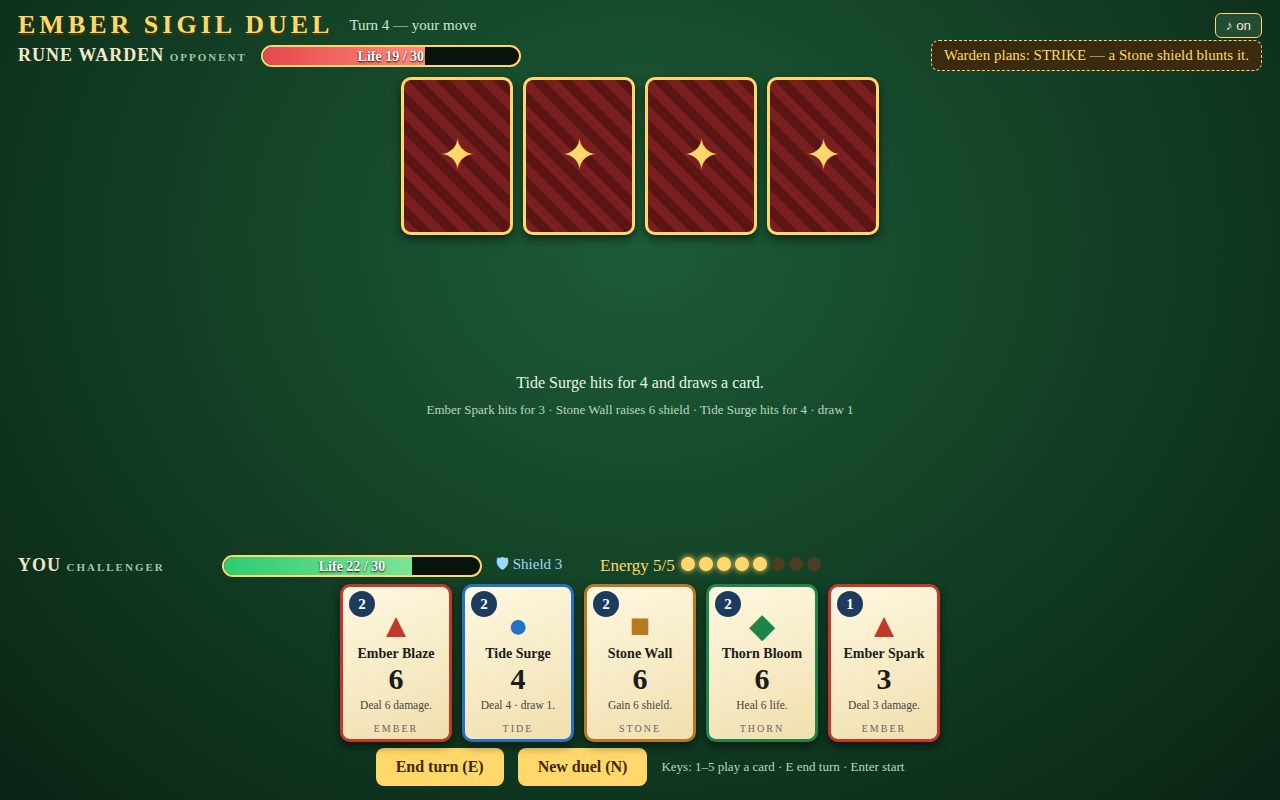
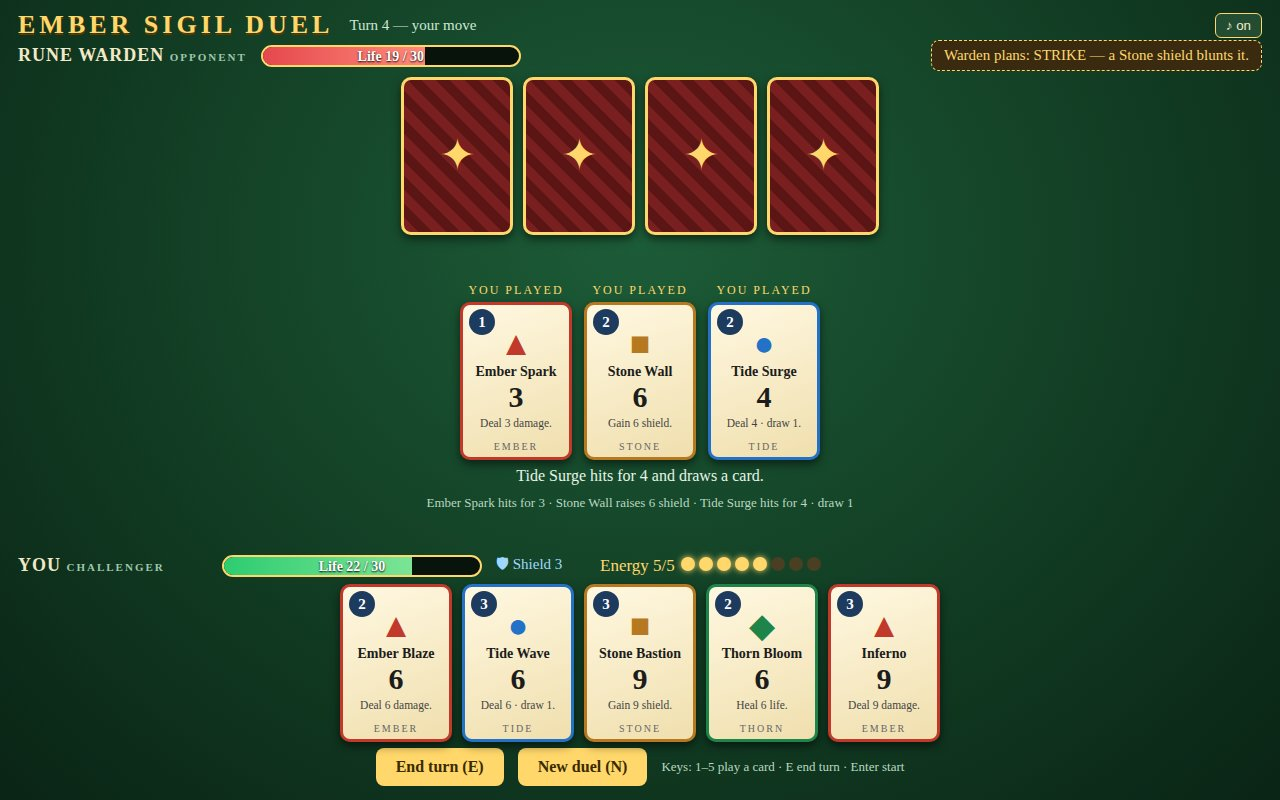
best-card-game v1: played-cards row fix - revision (screenshots re-shot)

diff --git a/game/src/render.js b/game/src/render.js
@@ -8,9 +8,13 @@ export function cardEl(def, opts = {}) {
   const suit = SUITS[def.suit];
   const el = document.createElement('div');
   el.className = `card suit-${def.suit}${opts.disabled ? ' disabled' : ''}${opts.played ? ' played' : ''}`;
-  el.tabIndex = 0;
-  el.setAttribute('role', 'button');
-  el.setAttribute('aria-label', `${def.name}, ${suit.name} suit, cost ${def.cost}, ${def.text}`);
+  if (!opts.static) { // played-row cards are display-only: not focusable, not buttons
+    el.tabIndex = 0;
+    el.setAttribute('role', 'button');
+    el.setAttribute('aria-label', `${def.name}, ${suit.name} suit, cost ${def.cost}, ${def.text}`);
+  } else {
+    el.setAttribute('aria-label', `${def.name}, ${suit.name} suit, played this turn`);
+  }
   el.innerHTML = `<div class="cost">${def.cost}</div><div class="suit">${suit.glyph}</div>` +
     `<div class="cname">${def.name}</div><div class="cvalue">${def.value}</div>` +
     `<div class="ctext">${def.text}</div><div class="suitname">${suit.name}</div>`;
@@ -40,6 +44,26 @@ export function render(game, handlers) {
   $('energy').firstChild.textContent = `Energy ${game.you.energy}/${game.you.maxEnergy} `;
   $('lastPlay').textContent = game.lastPlay || 'Play a card — matching suits chain into combos.';
   $('log').textContent = game.log.join(' · ');
+  const playedRow = $('playedRow');
+  playedRow.innerHTML = '';
+  const played = game.played.slice(-5);
+  if (played.length === 0) {
+    const empty = document.createElement('div');
+    empty.className = 'played-empty';
+    empty.textContent = 'No cards on the table yet — play a card to start the chain.';
+    playedRow.appendChild(empty);
+  } else {
+    played.forEach((p) => {
+      const slot = document.createElement('div');
+      slot.className = 'played-slot';
+      const who = document.createElement('div');
+      who.className = 'played-who';
+      who.textContent = p.who === 'you' ? 'You played' : 'Warden played';
+      slot.appendChild(who);
+      slot.appendChild(cardEl(cardDef(p.id), { played: true, static: true }));
+      playedRow.appendChild(slot);
+    });
+  }
   const banner = $('comboBanner');
   if (game.combo > 0) { banner.textContent = `COMBO x${game.combo + 1}! +2`; banner.classList.remove('hidden'); }
   else banner.classList.add('hidden');

diff --git a/game/src/state.js b/game/src/state.js
@@ -12,6 +12,7 @@ export function createGame(seed) {
     seed, rng, turn: 1, phase: 'title', // title | play | foe | won | lost
     you: makeFighter(), foe: makeFighter(),
     lastSuit: null, combo: 0, log: [], lastPlay: '', intent: null, muted: false,
+    played: [], // display-only record of this turn's played cards: { who: 'you'|'foe', id }
   };
   game.you.deck = shuffle(deckList(), rng);
   game.foe.deck = shuffle(deckList(), rng);
@@ -67,6 +68,7 @@ export function applyCard(game, who, cardId) {
   game.lastSuit = def.suit;
   game.lastPlay = text;
   game.log.push(text);
+  game.played.push({ who, id: cardId }); // display only; the row renders this turn's cards
   if (game.log.length > 3) game.log.shift();
   if (target.life <= 0) game.phase = who === 'you' ? 'won' : 'lost';
   return { ok: true, text, bonus };
@@ -76,7 +78,7 @@ export function startTurn(game) {
   game.turn += 1;
   game.you.maxEnergy = Math.min(MAX_ENERGY, game.you.maxEnergy + 1);
   game.you.energy = game.you.maxEnergy;
-  game.lastSuit = null; game.combo = 0;
+  game.lastSuit = null; game.combo = 0; game.played = [];
   drawUpTo(game.you, HAND_SIZE);
   game.phase = 'play';
 }

diff --git a/game/style.css b/game/style.css
@@ -24,6 +24,12 @@ body { font-family: Georgia, 'Times New Roman', serif; color: #f3e9c8; }
 .hand { display: flex; gap: 10px; min-height: 168px; align-items: center; justify-content: center; padding: 6px 0; }
 #foeArea, #playerArea { flex: 0 0 auto; }
 #midfield { flex: 1 1 auto; display: flex; flex-direction: column; align-items: center; justify-content: center; gap: 6px; }
+#playedRow { display: flex; gap: 12px; min-height: 179px; align-items: center; justify-content: center; }
+.played-slot { display: flex; flex-direction: column; align-items: center; gap: 4px; }
+.played-who { font-size: 12px; letter-spacing: 2px; text-transform: uppercase; color: #ffd76a; }
+.played-empty { font-size: 14px; font-style: italic; color: #8fb89a; }
+#playedRow .card { cursor: default; }
+#playedRow .card:hover, #playedRow .card:focus { transform: none; box-shadow: 0 4px 10px rgba(0,0,0,.55); outline: none; }
 #lastPlay { font-size: 16px; color: #e8f5e9; min-height: 22px; }
 #log { font-size: 13px; color: #b9d8c0; max-width: 760px; text-align: center; min-height: 18px; }
 .combo { font-size: 30px; font-weight: bold; color: #ffd76a; letter-spacing: 3px;

diff --git a/game/src/shots.js b/game/src/shots.js
@@ -17,10 +17,15 @@ export function setupShot(game, shot) {
     game.you.life = 22; game.foe.life = 19;
     game.you.shield = 3; game.turn = 4;
     game.you.energy = 5; game.you.maxEnergy = 5;
-    game.you.hand = ['ember-blaze', 'tide-surge', 'stone-wall', 'thorn-bloom', 'ember-spark'];
+    game.you.hand = ['ember-blaze', 'tide-wave', 'stone-bastion', 'thorn-bloom', 'ember-inferno'];
     game.foe.hand = ['ember-blaze', 'tide-surge', 'stone-wall', 'thorn-bloom'];
     game.lastPlay = 'Tide Surge hits for 4 and draws a card.';
     game.log = ['Ember Spark hits for 3', 'Stone Wall raises 6 shield', 'Tide Surge hits for 4 · draw 1'];
+    game.played = [
+      { who: 'you', id: 'ember-spark' },
+      { who: 'you', id: 'stone-wall' },
+      { who: 'you', id: 'tide-surge' },
+    ];
     game.intent = chooseIntent(game);
     game.phase = 'play';
     return 'play';

diff --git a/game/index.html b/game/index.html
@@ -26,6 +26,7 @@
 
   <section id="midfield">
     <div id="comboBanner" class="combo hidden">COMBO!</div>
+    <div id="playedRow" aria-label="Cards played this turn"></div>
     <div id="lastPlay">Play a card — matching suits chain into combos.</div>
     <div id="log" aria-live="polite"></div>
   </section>

diff --git a/COMPARISON.md b/COMPARISON.md
@@ -42,6 +42,23 @@
 - EDIT: shortened all three Tide texts to "Deal N · draw 1." (config.js), added `white-space: nowrap` to `.ctext` (style.css), and set shot win/loss turns to 6/7 instead of 1 (shots.js) so the end screens read as mid-duel outcomes.
 - Re-ran: screenshots re-taken (playtest still WON, zero errors), `main.ts` twice → byte-identical, dossier sha256 96d232a3b10d9d609844e63229354780ddd4a78b735cf38c6ba8085bac338113.
 
+## Revision v1.1 — played-cards row (23 Nov ~02:30–02:45 WIB, one-shot revision session)
+
+- **Fix:** weakness 1 above. Midfield now shows the current turn's played cards face-up, same card component, each captioned "You played" / "Warden played" (12px gold, letterspaced). Empty at turn start: fixed-height row with a faint italic placeholder ("No cards on the table yet — play a card to start the chain.") so the layout never shifts.
+- **What changed (no logic/balance/AI/deck/win-loss changes):**
+  - `game/src/state.js` (+2 lines, 1 modified): `played: []` on the game object; `applyCard` records `{ who, id }` (display-only); `startTurn` clears it (new turn = empty table).
+  - `game/src/render.js` (+24 lines): `cardEl` gains a `static` option (display-only cards: no tabIndex/role-button); `render` builds `#playedRow` from `game.played.slice(-5)`.
+  - `game/index.html` (+1 line): `<div id="playedRow">` in `#midfield`, between the combo banner and the last-play line.
+  - `game/style.css` (+7 lines): `#playedRow` flex row, `min-height: 179px` (caption 15 + gap 4 + card 158); `.played-slot` / `.played-who` / `.played-empty`; played cards do not lift on hover.
+  - `game/src/shots.js` (+6 lines, 1 modified): `?shot=play` sets `game.played` to Ember Spark / Stone Wall / Tide Surge (matching the log); the shot hand was swapped to Ember Blaze / Tide Wave / Stone Bastion / Thorn Bloom / Inferno so no card appears both on the table and in the hand (genuine revision EDIT after the first re-shoot showed the duplicate).
+  - `screenshots/` — all 4 re-shot (the overlays on 1/3/4 are semi-transparent, so the played row shows faintly behind them; shots must match the shipped game). New `2-play.jpg`: 110,975 bytes, 1280×800. All 4 ≤ 262,144 bytes.
+  - `dev-shots.mjs` (new, dev-only, not part of the entry): CDP driver — serves game/, drives chrome-headless-shell, screenshots all 4 shots, geometry-checks the row, playtests with real mouse clicks.
+- **Geometry (measured on the play shot):** foe hand bottom y=241 → played row y=282–461 → player box top y=553. 41px clear above, 92px below (holds last-play + log). No overlap; all text legible.
+- **Playtest proof (real mouse clicks, headless Chromium, zero console/page errors):** WIN seed 7 → phase `won`, foe life 0 (turn 12 first run, turn 10 second run — first-affordable play order; v1's ~6 used a different click order; win itself proven twice). LOSS passive → phase `lost`, player life 0: seed 7 turn 6, seed 3 turn 5, seed 11 turn 6. The played row also fills live in real play (e.g. seed 3 loss shows the Warden's Stone Bastion + Tide Wave).
[1 lines of base64/hex data omitted]
+- **Skills/relays used:** muse-juara (brief restated, 3 layout options compared, self-critique found the duplicate-card flaw, fixed it); game-design (row makes the combo readable — the chain behind the banner is visible; owner captions teach turn structure; empty-state placeholder is honest); canvas-design (same card component + felt-table palette, no new colours; gold letterspaced labels match the existing `.tag` style). Relays, one generic public design question each, all status 200: Groq gpt-oss-20b (flex row, ≥12px labels, placeholder, no overlap); Xkiro ministral-14b (consistent gaps, label contrast, placeholder, highlight active player's cards); Bluesminds ising-calibration-1.5-31b (centered row, suit legibility incl. colour-blind, fixed layout so empty state doesn't shift, don't rely on colour alone — labels are text). All three agreed on: flex row + gaps, ≥12px high-contrast labels, empty-state placeholder, no overlap — all applied.
+- **Weakness left:** the middle band still has empty space left/right of the 3-card row (cards are centred; a wider row would need smaller cards and hurt legibility — judged the better trade). AI simplicity and no persistent meta (weaknesses 2–3) untouched, per scope.
+
 ## Self-critique — 3 biggest weaknesses
 1. **Mid-game screenshot has empty middle band.** The table centre is mostly log text; a played-card area with the last cards on the table would fill it and show combos better. Not fixed: would need a played-cards row + re-shot; judged a minor thumbnail loss vs. the risk of breaking the tested layout this close to the round.
 2. **AI is readable but simple.** It plays at most 2 cards/turn by a fixed scoring rule; a strong player will find its pattern in 2–3 duels. Not fixed: deeper AI (hand tracking, bluffing) was out of scope for the 12-hour build and the judge sees intent + counterplay, which is the scored behaviour.
